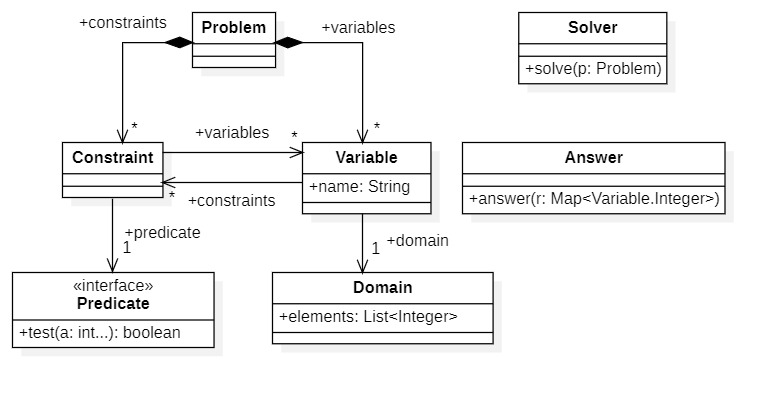
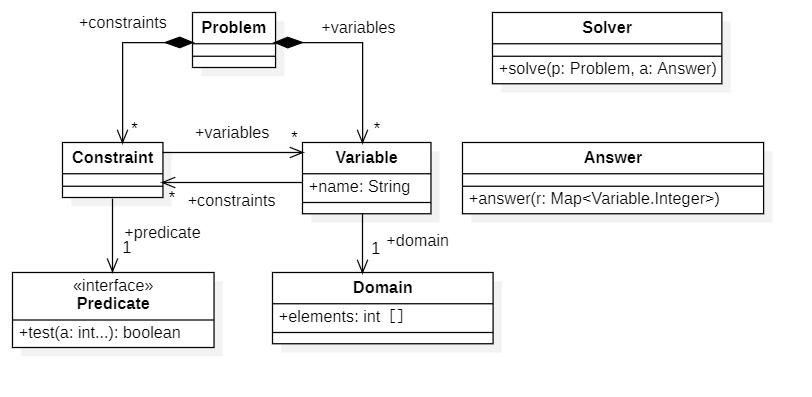
aa

diff --git a/src/main/java/jp/saka1029/csp/Solver.java b/src/main/java/jp/saka1029/csp/Solver.java
@@ -10,17 +10,17 @@ import java.util.logging.Logger;
 
 public class Solver {
 
-    static Logger logger = Logger.getLogger(Solver.class.getName());
+    static final Logger logger = Logger.getLogger(Solver.class.getName());
 
-    static List<List<Constraint>> constraintOrder(final List<Variable> bindingOrder, final List<Constraint> constraints) {
-        final int variableSize = bindingOrder.size();
-        final int constraintSize = constraints.size();
-        final List<List<Constraint>> result = new ArrayList<>(variableSize);
-        final Set<Constraint> done = new HashSet<>(constraintSize);
-        final Set<Variable> bound = new HashSet<>(variableSize);
+    static List<List<Constraint>> constraintOrder(List<Variable> bindingOrder, List<Constraint> constraints) {
+        int variableSize = bindingOrder.size();
+        int constraintSize = constraints.size();
+        List<List<Constraint>> result = new ArrayList<>(variableSize);
+        Set<Constraint> done = new HashSet<>(constraintSize);
+        Set<Variable> bound = new HashSet<>(variableSize);
         for (Variable v : bindingOrder) {
             bound.add(v);
-            final List<Constraint> list = new ArrayList<>();
+            List<Constraint> list = new ArrayList<>();
             result.add(list);
             for (Constraint c : constraints)
                 if (!done.contains(c) && bound.containsAll(c.variables)) {
@@ -31,16 +31,15 @@ public class Solver {
         return result;
     }
 
-    public void solve(final Problem problem, final Answer answer) {
-        final int variableSize = problem.variables.size();
-        final List<Variable> bindingOrder = problem.variables;
-        final List<List<Constraint>> constraintOrder = constraintOrder(bindingOrder, problem.constraints);
-        final int[] arguments = new int[variableSize];
-        final Map<Variable, Integer> result = new LinkedHashMap<>(variableSize);
+    public void solve(Problem problem, List<Variable> bindingOrder, Answer answer) {
+        int variableSize = problem.variables.size();
+        List<List<Constraint>> constraintOrder = constraintOrder(bindingOrder, problem.constraints);
+        int[] arguments = new int[variableSize];
+        Map<Variable, Integer> result = new LinkedHashMap<>(variableSize);
 
         new Object() {
 
-            boolean test(final int i) {
+            boolean test(int i) {
                 for (Constraint c : constraintOrder.get(i)) {
                     int p = 0;
                     for (Variable v : c.variables)
@@ -51,20 +50,25 @@ public class Solver {
                 return true;
             }
 
-            void solve(final int i) {
+            void solve(int i) {
                 if (i >= variableSize)
                     answer.answer(result);
                 else {
-                    final Variable v = bindingOrder.get(i);
-                    final Domain d = v.domain;
+                    Variable v = bindingOrder.get(i);
+                    Domain d = v.domain;
                     for (int value : d) {
                         result.put(v, value);
-                        if (test(i)) solve(i + 1);
+                        if (test(i))
+                            solve(i + 1);
                     }
                 }
             }
 
         }.solve(0);
+    }
+
+    public void solve(Problem problem, Answer answer) {
+        solve(problem, problem.variables, answer);
     }
 
 }

diff --git a/src/test/java/jp/saka1029/csp/test/Test数独.java b/src/test/java/jp/saka1029/csp/test/Test数独.java
@@ -1,11 +1,15 @@
 package jp.saka1029.csp.test;
 
 import java.util.ArrayList;
+import java.util.Arrays;
+import java.util.Collections;
+import java.util.Comparator;
+import java.util.LinkedHashSet;
 import java.util.List;
 import java.util.Map;
+import java.util.Set;
 import java.util.logging.Logger;
 
-import org.junit.jupiter.api.Disabled;
 import org.junit.jupiter.api.Test;
 
 import jp.saka1029.csp.Domain;
@@ -19,7 +23,7 @@ class Test数独 {
 
     static int 辺の長さ = 9;
     static int 小四角形の辺の長さ = 3;
-    static Domain 定義域 = Domain.of(1, 2, 3, 4, 5, 6, 7, 8, 9);
+    static Domain 定義域 = Domain.rangeClosed(1, 9);
 
     static String 名前(int r, int c) {
         return r + "@" + c;
@@ -34,7 +38,7 @@ class Test数独 {
         return 変数;
     }
 
-    static void 制約定義(Problem 問題, Variable[][] 変数) {
+    static List<Variable[]> 制約定義(Problem 問題, Variable[][] 変数) {
         List<Variable[]> 制約変数 = new ArrayList<>();
         for (int r = 0; r < 辺の長さ; ++r)
             制約変数.add(変数[r]);
@@ -54,6 +58,7 @@ class Test数独 {
             }
         for (Variable[] va : 制約変数)
             問題.allDifferent(va);
+        return 制約変数;
     }
 
     static void 答(Variable[][] 変数, Map<Variable, Integer> 解答) {
@@ -65,12 +70,26 @@ class Test数独 {
         }
     }
 
+    static List<Variable> 束縛順序定義(List<Variable> 変数, List<Variable[]> 制約変数) {
+        Set<Variable> 束縛順序 = new LinkedHashSet<>();
+        for (Variable v : 変数)
+            if (v.domain.size() == 1)
+                束縛順序.add(v);
+        Collections.sort(制約変数,
+            Comparator.comparingInt(a -> Arrays.stream(a).mapToInt(v -> v.domain.size()).sum()));
+        for (Variable[] a : 制約変数)
+            for (Variable v : a)
+                束縛順序.add(v);
+        return new ArrayList<>(束縛順序);
+    }
+
     static void 数独(int[][] 入力) {
         Problem 問題 = new Problem();
         Variable[][] 変数 = 変数定義(問題, 入力);
-        制約定義(問題, 変数);
+        List<Variable[]> 制約変数 = 制約定義(問題, 変数);
+        List<Variable> 束縛順序 = 束縛順序定義(問題.variables, 制約変数);
         Solver 解決 = new Solver();
-        解決.solve(問題, m -> 答(変数, m));
+        解決.solve(問題, 束縛順序, m -> 答(変数, m));
     }
 
     @Test
@@ -92,7 +111,6 @@ class Test数独 {
 		数独(入力);
 	}
 
-    @Disabled
     @Test
     void testGood_at_Sudoku_Heres_some_youll_never_complete() {
         // http://theconversation.com/good-at-sudoku-heres-some-youll-never-complete-5234
